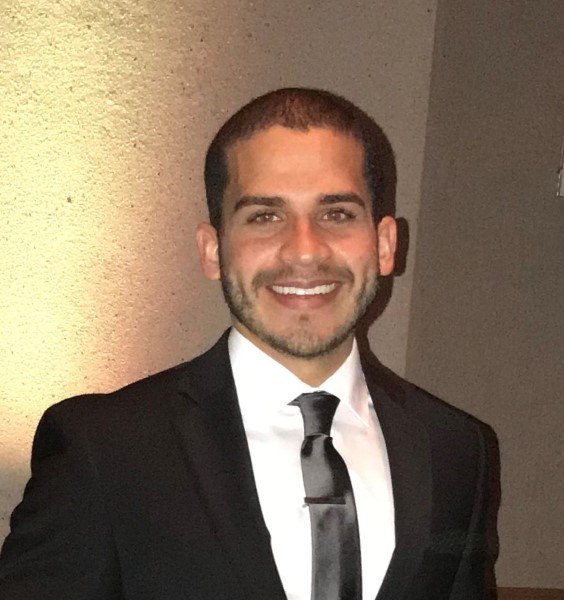
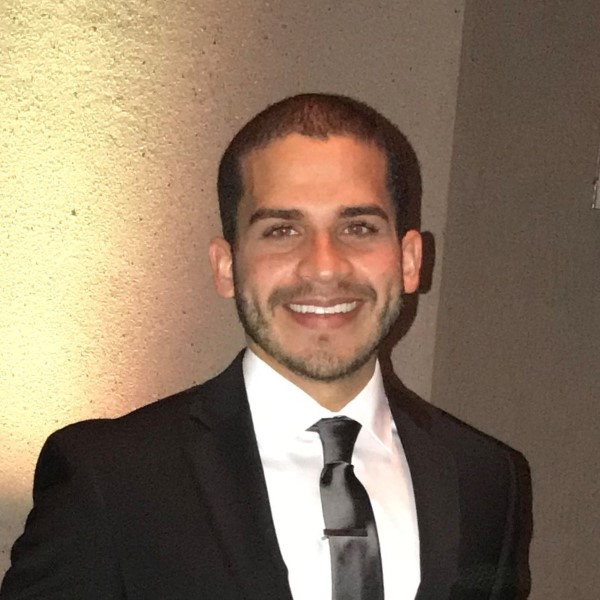
Updating team-1 image

diff --git a/index.html b/index.html
@@ -833,7 +833,7 @@
 
         <div class="row footer-newsletter justify-content-center">
           <div class="col-lg-6">
-            <form action="" method="post">
+            <form action="https://formspree.io/mdowqdjl" method="post">
               <input type="email" name="email" placeholder="Enter your Email"><input type="submit" value="Subscribe">
             </form>
           </div>
